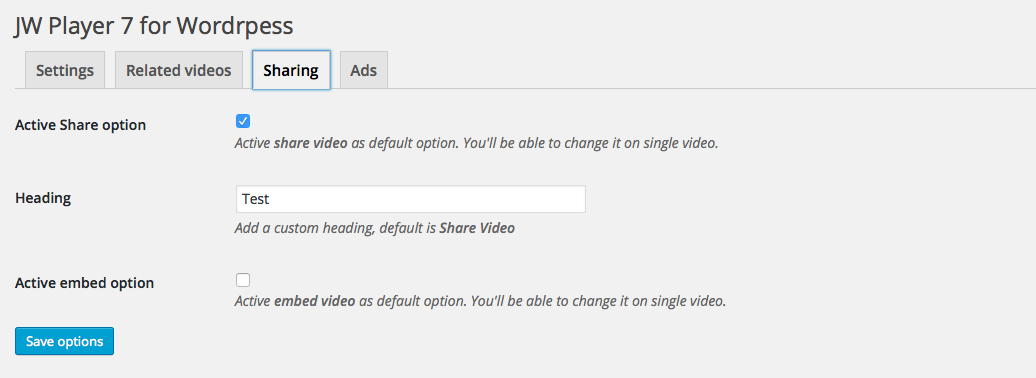
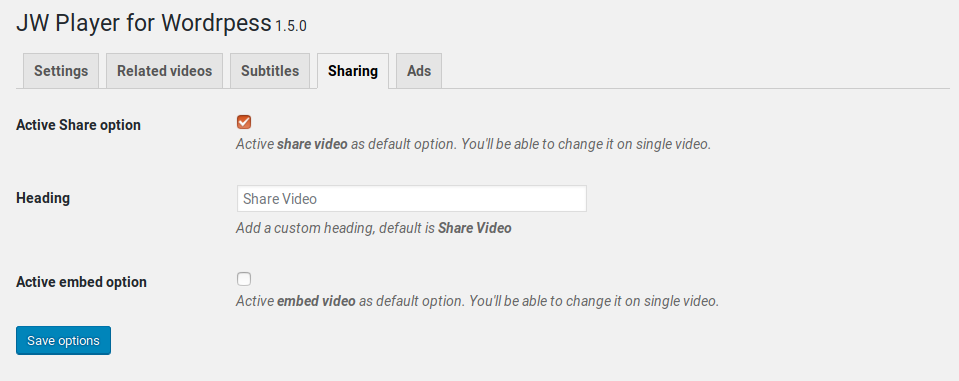
Update dev-version

diff --git a/includes/jwppp-admin.php b/includes/jwppp-admin.php
@@ -55,7 +55,7 @@ echo '<div class="wrap-left" style="float:left; width:70%;">';
 
 	echo '<div id="jwppp-description">';
 	    //HEADER
-		echo "<h1 class=\"jwppp main\">" . __( 'JW Player for Wordrpess', 'jwppp' ) . "<span style=\"font-size:60%;\"> 1.5.0 Dev Version</span></h1>";
+		echo "<h1 class=\"jwppp main\">" . __( 'JW Player for Wordrpess', 'jwppp' ) . "<span style=\"font-size:60%;\"> 1.5.0</span></h1>";
 	echo '</div>';
 
 ?>
